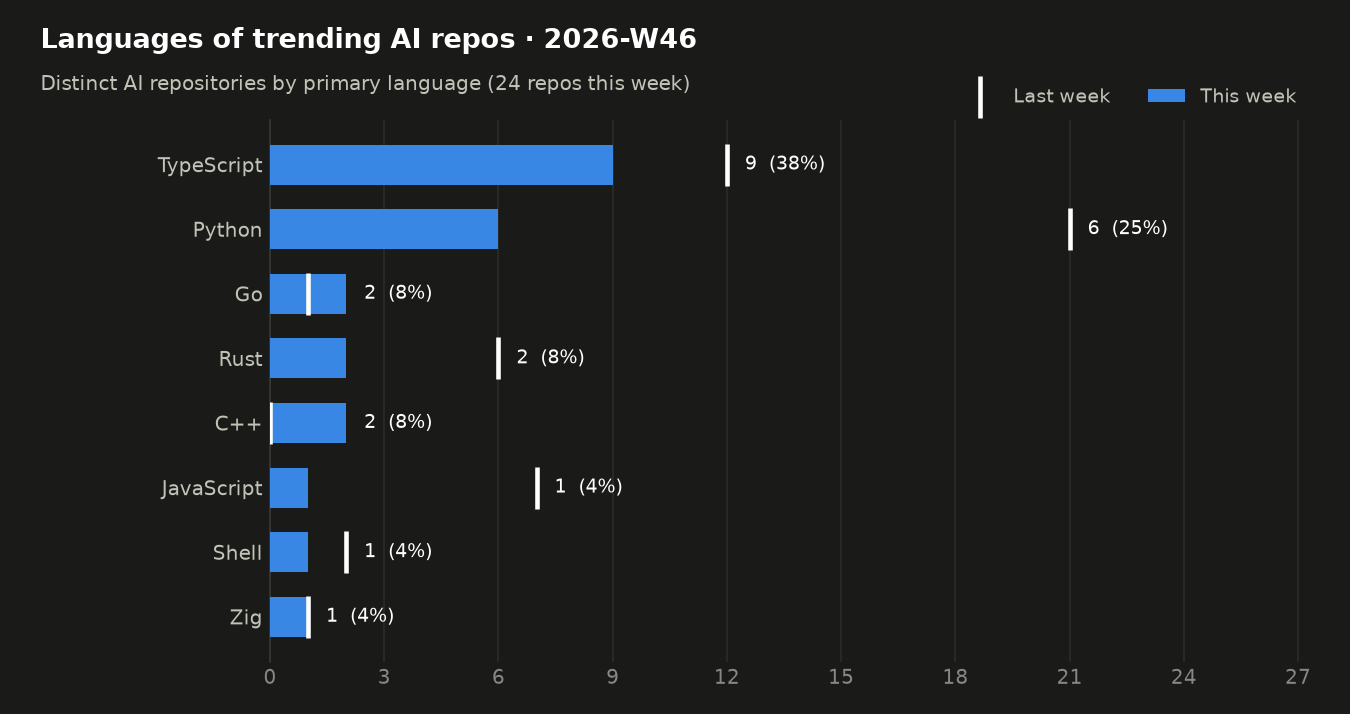
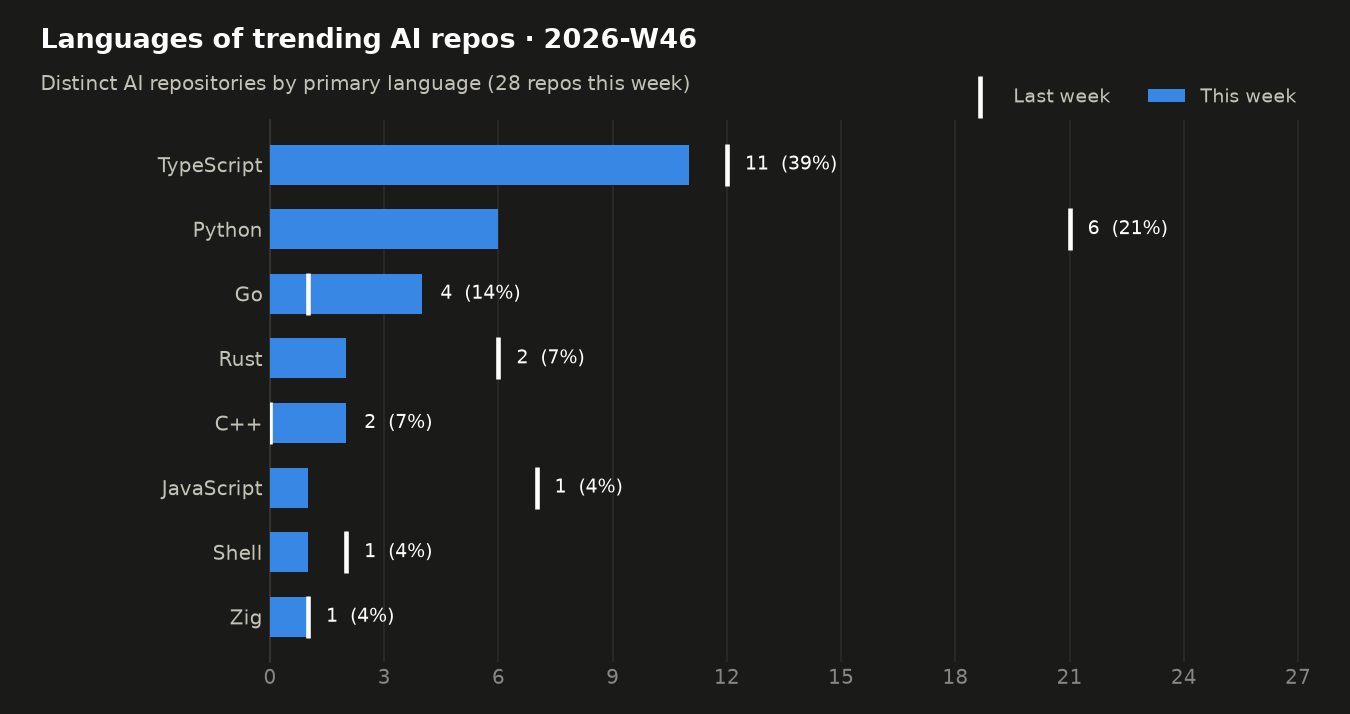
trending: snapshot 2026-11-15

Changed region(s): [[0.4356, 0.1849, 0.6222, 0.2773], [0.2489, 0.3697, 0.3733, 0.4622], [0.3733, 0.0924, 0.4044, 0.1232]]

diff --git a/README.md b/README.md
@@ -7,30 +7,34 @@ Every morning a GitHub Actions workflow reads the GitHub trending page, looks up
 ## Live view
 
 <!-- TRACKER_START -->
-### 🔥 AI repos trending today · 2026-11-14
+### 🔥 AI repos trending today · 2026-11-15
 
-8 of 12 trending repositories are AI-related.
+12 of 15 trending repositories are AI-related.
 
 | # | Repo | Language | ⭐ today | ⭐ total | Topics |
 |--:|---|---|--:|--:|---|
-| 1 | [alibaba/open-code-review](https://github.com/alibaba/open-code-review)<br><sub>Star alibaba / open-code-review Secure, fast, efficient, battle-tested at Alibaba's scale.…</sub> | Go | 215 | 50,920 | `agent` `agent-skills` `code-review` `code-review-assistant` |
-| 2 | [GoogleChrome/modern-web-guidance-src](https://github.com/GoogleChrome/modern-web-guidance-src)<br><sub>Star GoogleChrome / modern-web-guidance-src Keep your coding agent up to date with the lat…</sub> | TypeScript | 1,925 | 5,169 | – |
-| 3 | [openai/codex-security](https://github.com/openai/codex-security)<br><sub>Star openai / codex-security OpenAI's Codex Security CLI and TypeScript SDK for finding, v…</sub> | TypeScript | 751 | 13,318 | `ai-security` `application-security` `cli` `code-scanning` |
-| 4 | [ZhuLinsen/daily_stock_analysis](https://github.com/ZhuLinsen/daily_stock_analysis)<br><sub>Sponsor Star ZhuLinsen / daily_stock_analysis LLM 驱动的多市场股票智能分析系统：多源行情、实时新闻、决策看板与自动推送，支持零成本…</sub> | Python | 256 | 71,950 | `a-stock` `ai-agent` `aigc` `llm` |
-| 6 | [backnotprop/plannotator](https://github.com/backnotprop/plannotator)<br><sub>Star backnotprop / plannotator The workspace to stay in the loop and on top of agents - sh…</sub> | TypeScript | 108 | 10,600 | `agents` `claude-code` `code-review` `codex` |
-| 9 | [tradermonty/claude-trading-skills](https://github.com/tradermonty/claude-trading-skills)<br><sub>Star tradermonty / claude-trading-skills Claude Code skills for equity investors and trade…</sub> | Python | 69 | 4,348 | – |
-| 11 | [Likely7/Veyra-NRVideo](https://github.com/Likely7/Veyra-NRVideo)<br><sub>Star Likely7 / Veyra-NRVideo Bring PS5 GTA6 to 120FPS with DLSS 5. An advanced Windows vid…</sub> | C++ | 256 | 1,755 | – |
-| 12 | [ChromeDevTools/chrome-devtools-mcp](https://github.com/ChromeDevTools/chrome-devtools-mcp)<br><sub>Star ChromeDevTools / chrome-devtools-mcp Chrome DevTools for coding agents</sub> | TypeScript | 67 | 55,763 | `browser` `chrome` `chrome-devtools` `debugging` |
+| 1 | [backnotprop/plannotator](https://github.com/backnotprop/plannotator)<br><sub>Star backnotprop / plannotator The workspace to stay in the loop and on top of agents - sh…</sub> | TypeScript | 408 | 11,433 | `agents` `claude-code` `code-review` `codex` |
+| 2 | [GoogleChrome/modern-web-guidance-src](https://github.com/GoogleChrome/modern-web-guidance-src)<br><sub>Star GoogleChrome / modern-web-guidance-src Keep your coding agent up to date with the lat…</sub> | TypeScript | 1,231 | 6,391 | – |
+| 3 | [tradermonty/claude-trading-skills](https://github.com/tradermonty/claude-trading-skills)<br><sub>Star tradermonty / claude-trading-skills Claude Code skills for equity investors and trade…</sub> | Python | 553 | 5,061 | – |
+| 4 | [ChromeDevTools/chrome-devtools-mcp](https://github.com/ChromeDevTools/chrome-devtools-mcp)<br><sub>Star ChromeDevTools / chrome-devtools-mcp Chrome DevTools for coding agents</sub> | TypeScript | 664 | 56,519 | `browser` `chrome` `chrome-devtools` `debugging` |
+| 5 | [alibaba/open-code-review](https://github.com/alibaba/open-code-review)<br><sub>Star alibaba / open-code-review Secure, fast, efficient, battle-tested at Alibaba's scale.…</sub> | Go | 893 | 51,625 | `agent` `agent-skills` `code-review` `code-review-assistant` |
+| 6 | [QwenLM/qwen-code](https://github.com/QwenLM/qwen-code)<br><sub>Star QwenLM / qwen-code An open-source AI coding agent that lives in your terminal.</sub> | TypeScript | 64 | 30,450 | `agentic` `ai` `ai-agent` `ai-coding` |
+| 7 | [dream-num/univer](https://github.com/dream-num/univer)<br><sub>Star dream-num / univer Build your own AI office with Univer Office SDK. Bring editing, ca…</sub> | TypeScript | 495 | 25,142 | `board` `collaboration` `doc` `docx` |
+| 8 | [ag-ui-protocol/ag-ui](https://github.com/ag-ui-protocol/ag-ui)<br><sub>Star ag-ui-protocol / ag-ui AG-UI: the Agent-User Interaction Protocol. Bring Agents into …</sub> | TypeScript | 9 | 17,490 | `ag-ui-protocol` `agent-frontend` `agent-ui` `agentic-workflow` |
+| 9 | [ashhart/TensorFold](https://github.com/ashhart/TensorFold)<br><sub>Sponsor Star ashhart / TensorFold LLM Inference Engine for Metal, CUDA and Vulkan.</sub> | Zig | 37 | 2,215 | `ai` `ai-tools` `llm` `llm-inference` |
+| 10 | [JuliusBrussee/caveman](https://github.com/JuliusBrussee/caveman)<br><sub>Sponsor Star JuliusBrussee / caveman 🪨 why use many token when few token do trick. Viral s…</sub> | Go | 227 | 120,234 | `ai` `anthropic` `caveman` `claude` |
+| 13 | [Tencent/LoopForge](https://github.com/Tencent/LoopForge)<br><sub>Star Tencent / LoopForge Self-hosted workflows for coding-agent delivery. Orchestrate Code…</sub> | Go | 33 | 1,061 | `agent-orchestration` `agentic-workflow` `ai-agents` `ai-coding` |
+| 14 | [Likely7/Veyra-NRVideo](https://github.com/Likely7/Veyra-NRVideo)<br><sub>Star Likely7 / Veyra-NRVideo Bring PS5 GTA6 to 120FPS with DLSS 5. An advanced Windows vid…</sub> | C++ | 420 | 2,473 | – |
 
 ### 📊 This week so far · 2026-W46
 
 #### Summary
 
-- **24** distinct AI repos trended over 6 day(s) (last week: 58)
-- AI share of all trending slots: **67%** (-6 pts vs last week)
-- Dominant language: **TypeScript** (38% of AI repos)
-- Rising topics: `home-assistant` (+2), `home-automation` (+2), `code-review` (+1)
-- New this week: `home-automation`, `home-assistant`
+- **28** distinct AI repos trended over 7 day(s) (last week: 58)
+- AI share of all trending slots: **70%** (-3 pts vs last week)
+- Dominant language: **TypeScript** (39% of AI repos)
+- Rising topics: `agentic-workflow` (+2), `code-review` (+2), `home-assistant` (+2), `home-automation` (+2), `sdk` (+2)
+- New this week: `home-assistant`, `home-automation`, `sdk`, `agentic-workflow`
 
 #### Languages
 
@@ -38,11 +42,11 @@ Every morning a GitHub Actions workflow reads the GitHub trending page, looks up
 
 | Language | Repos | Share | Last week |
 |---|--:|--:|--:|
-| TypeScript | 9 | 38% | 12 |
-| Python | 6 | 25% | 21 |
-| Go | 2 | 8% | 1 |
-| Rust | 2 | 8% | 6 |
-| C++ | 2 | 8% | 0 |
+| TypeScript | 11 | 39% | 12 |
+| Python | 6 | 21% | 21 |
+| Go | 4 | 14% | 1 |
+| Rust | 2 | 7% | 6 |
+| C++ | 2 | 7% | 0 |
 | JavaScript | 1 | 4% | 7 |
 | Shell | 1 | 4% | 2 |
 | Zig | 1 | 4% | 1 |
@@ -53,18 +57,18 @@ Every morning a GitHub Actions workflow reads the GitHub trending page, looks up
 
 | Topic | Repos this week |
 |---|--:|
-| `mcp` | 5 |
-| `claude-code` | 4 |
-| `codex` | 4 |
+| `claude-code` | 6 |
+| `mcp` | 6 |
+| `codex` | 5 |
+| `ai-agents` | 4 |
 | `agent-skills` | 3 |
-| `ai-agents` | 2 |
-| `home-automation` | 2 |
+| `claude` | 3 |
+| `code-review` | 3 |
+| `self-hosted` | 2 |
 | `home-assistant` | 2 |
-| `claude` | 2 |
+| `home-automation` | 2 |
 | `ai-agent` | 2 |
 | `skills` | 2 |
-| `cli` | 2 |
-| `code-review` | 2 |
 
 #### Most persistent AI repos
 
@@ -72,6 +76,7 @@ Every morning a GitHub Actions workflow reads the GitHub trending page, looks up
 |---|---|--:|--:|--:|
 | [meta/astryx](https://github.com/meta/astryx) | TypeScript | 5 | 11,867 | 27,008 |
 | [vercel-labs/agent-browser](https://github.com/vercel-labs/agent-browser) | Rust | 4 | 3,219 | 50,119 |
+| [GoogleChrome/modern-web-guidance-src](https://github.com/GoogleChrome/modern-web-guidance-src) | TypeScript | 3 | 3,895 | 6,391 |
 | [anthropics/skills](https://github.com/anthropics/skills) | Python | 3 | 3,509 | 192,716 |
 | [addyosmani/agent-skills](https://github.com/addyosmani/agent-skills) | JavaScript | 3 | 2,068 | 116,930 |
 | [homeassistant-ai/ha-mcp](https://github.com/homeassistant-ai/ha-mcp) | Python | 3 | 1,466 | 7,607 |
@@ -79,11 +84,10 @@ Every morning a GitHub Actions workflow reads the GitHub trending page, looks up
 | [anthropics/claude-quickstarts](https://github.com/anthropics/claude-quickstarts) | Python | 3 | 1,114 | 20,676 |
 | [ZhuLinsen/daily_stock_analysis](https://github.com/ZhuLinsen/daily_stock_analysis) | Python | 3 | 1,040 | 71,950 |
 | [milind-soni/OpenMausBot](https://github.com/milind-soni/OpenMausBot) | TypeScript | 2 | 3,026 | 20,240 |
-| [GoogleChrome/modern-web-guidance-src](https://github.com/GoogleChrome/modern-web-guidance-src) | TypeScript | 2 | 2,664 | 5,169 |
 
 ➡ Last full weekly analysis: [2026-W45](reports/weekly/2026-W45.md) · [all reports](reports/weekly)
 
-_Tracking since 2026-10-01 · 45 day(s) of data · [raw data](data/trending.csv)_
+_Tracking since 2026-10-01 · 46 day(s) of data · [raw data](data/trending.csv)_
 <!-- TRACKER_END -->
 
 ## How it works
